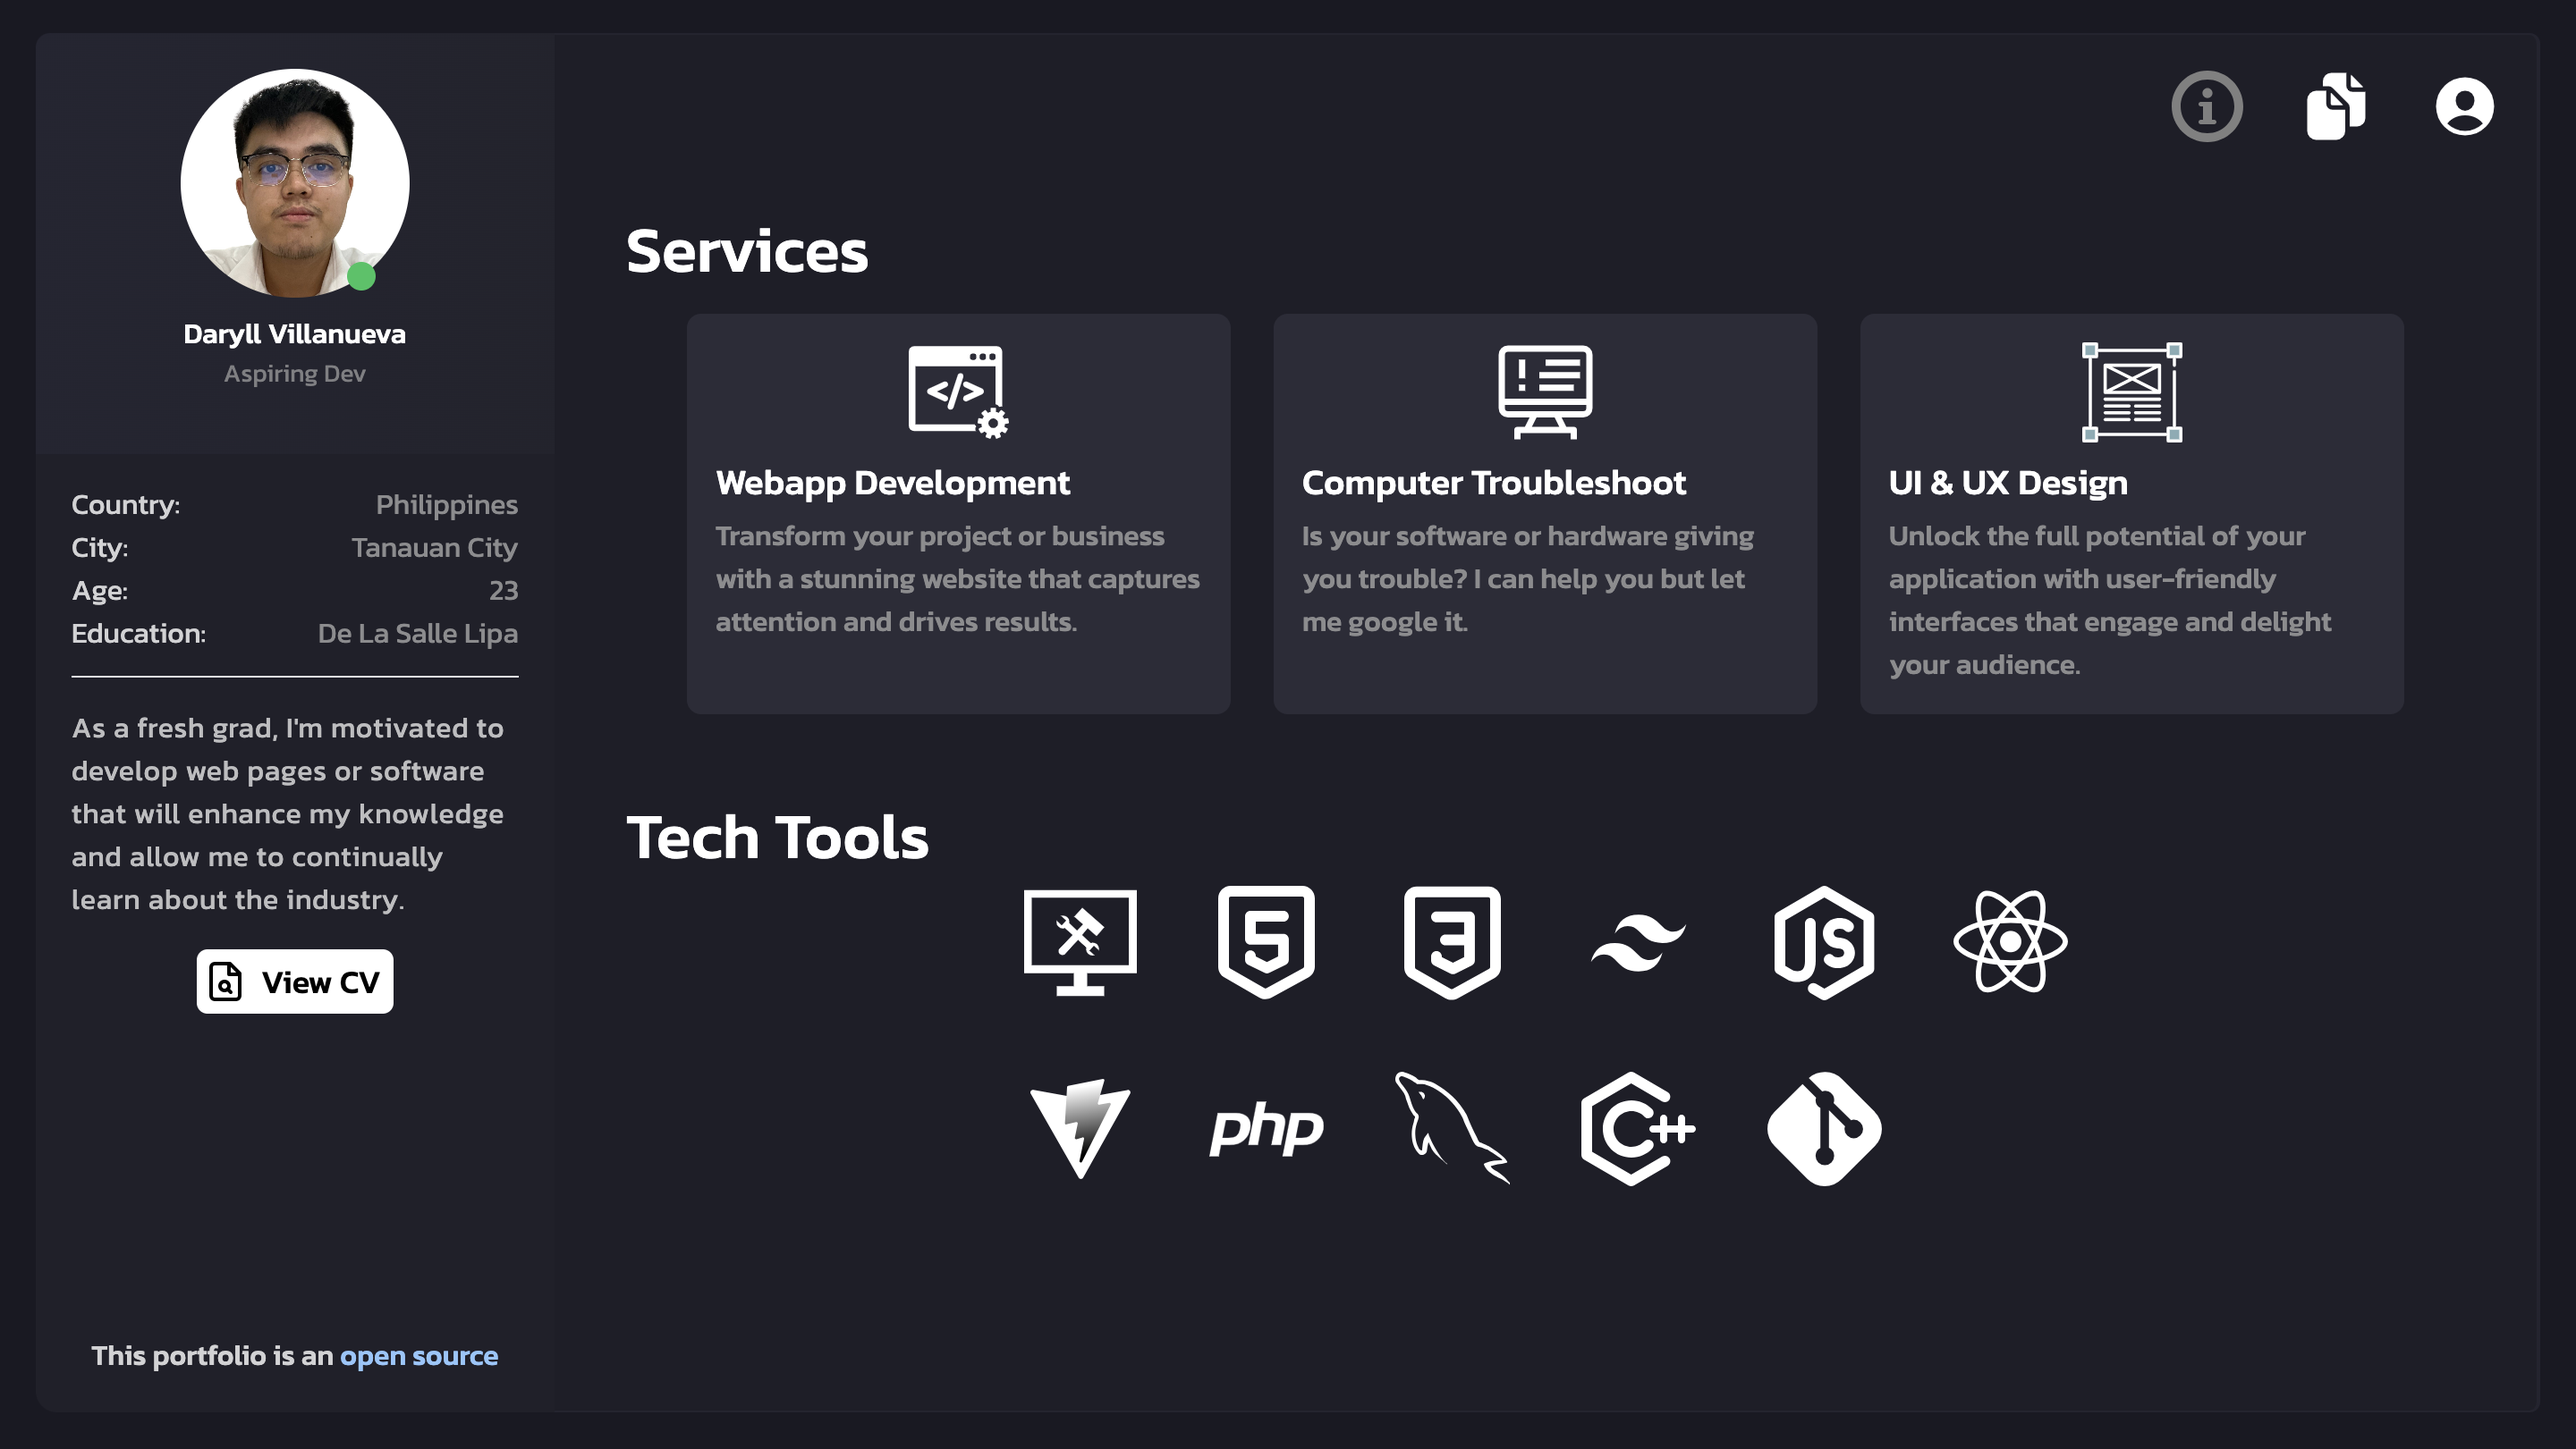
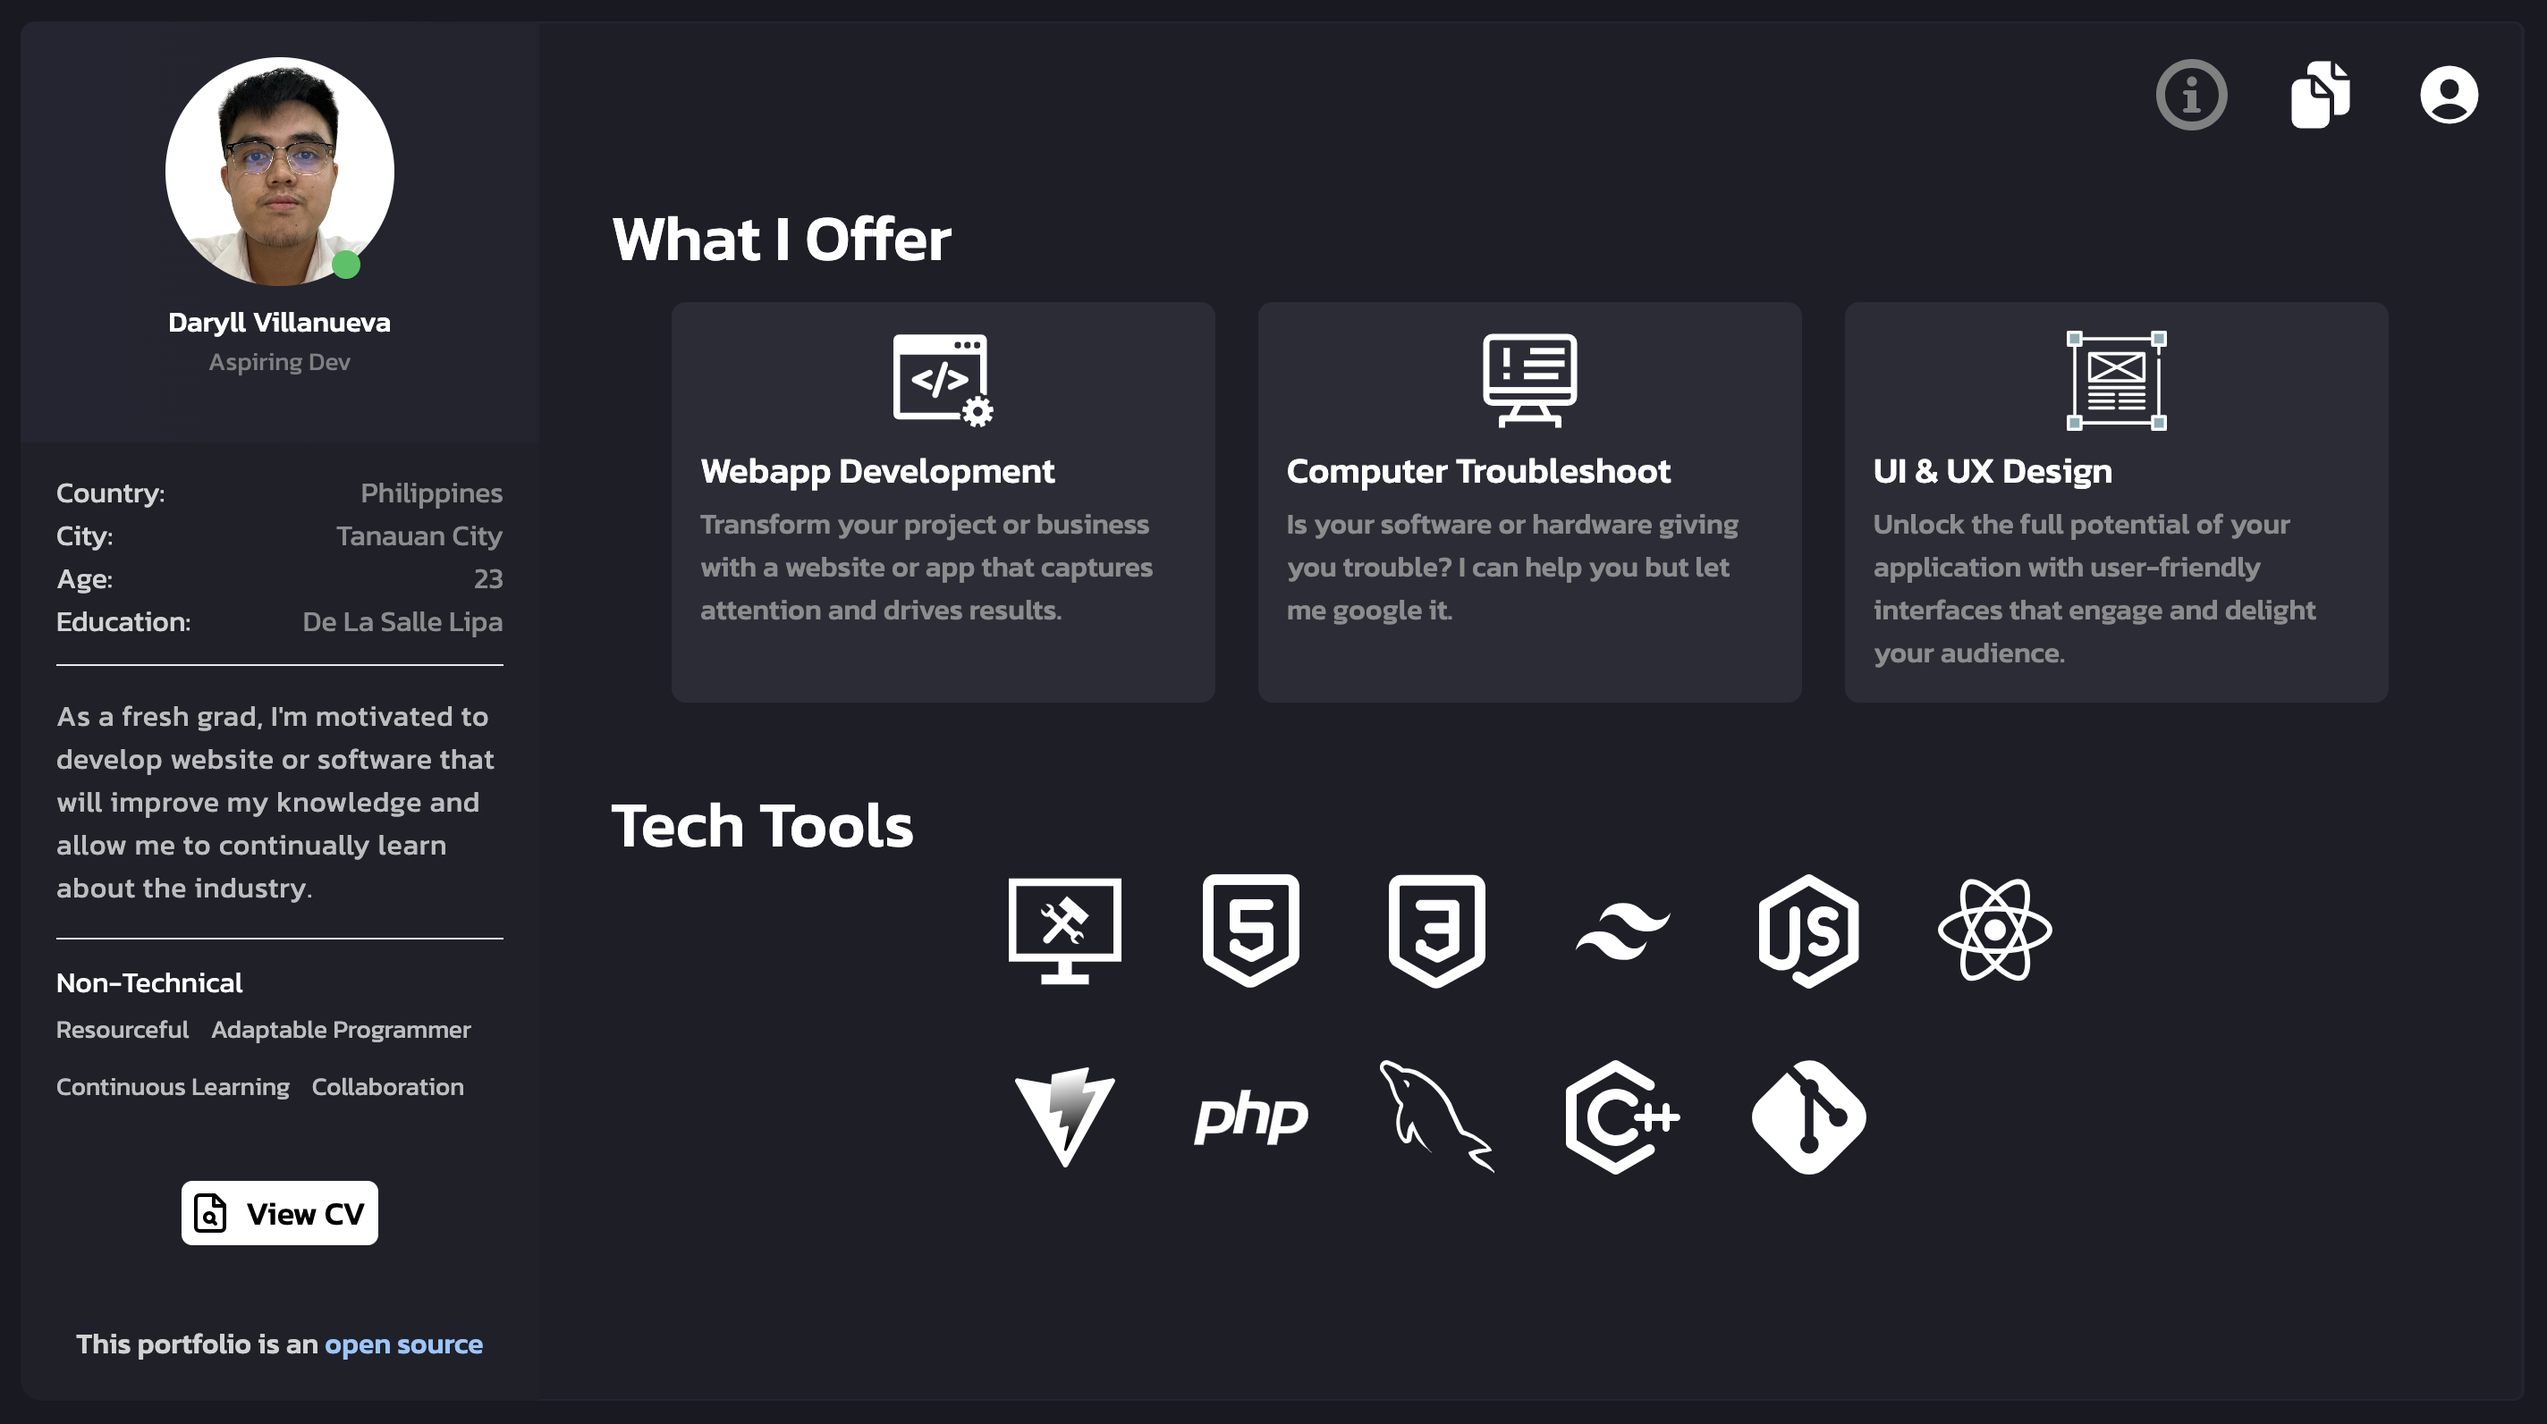
final update desktop view

diff --git a/src/components/partials/Sidebar_Expanded.jsx b/src/components/partials/Sidebar_Expanded.jsx
@@ -39,13 +39,14 @@ const Sidebar_Expanded = ({setShowSideBar, showSideBar}) => {
           <li className='text-icons'>De La Salle Lipa</li>
         </ul>
       </div>
-      <p className='text-white/70 px-5 tracking-wide font-kanit'>As a fresh grad, I'm motivated to develop website or software that will improve my knowledge and allow me to continually learn about the industry.</p>
+      <p className='text-white/70 px-5 tracking-wide font-kanit_m'>As a fresh grad, I'm motivated to develop website or software that will improve my knowledge and allow me to continually learn about the industry.</p>
       <div className='px-5 font-kanit'>
         <h1 className='border-t pt-3 text-white'>Non-Technical</h1>
         <ul className='text-sm flex flex-wrap gap-3 text-white/70 mt-1'>
           <li>Resourceful</li>
           <li>Adaptable Programmer</li>
           <li>Continuous Learning</li>
+          <li>Responsible</li>
           <li>Collaboration</li>
         </ul>
       </div>
